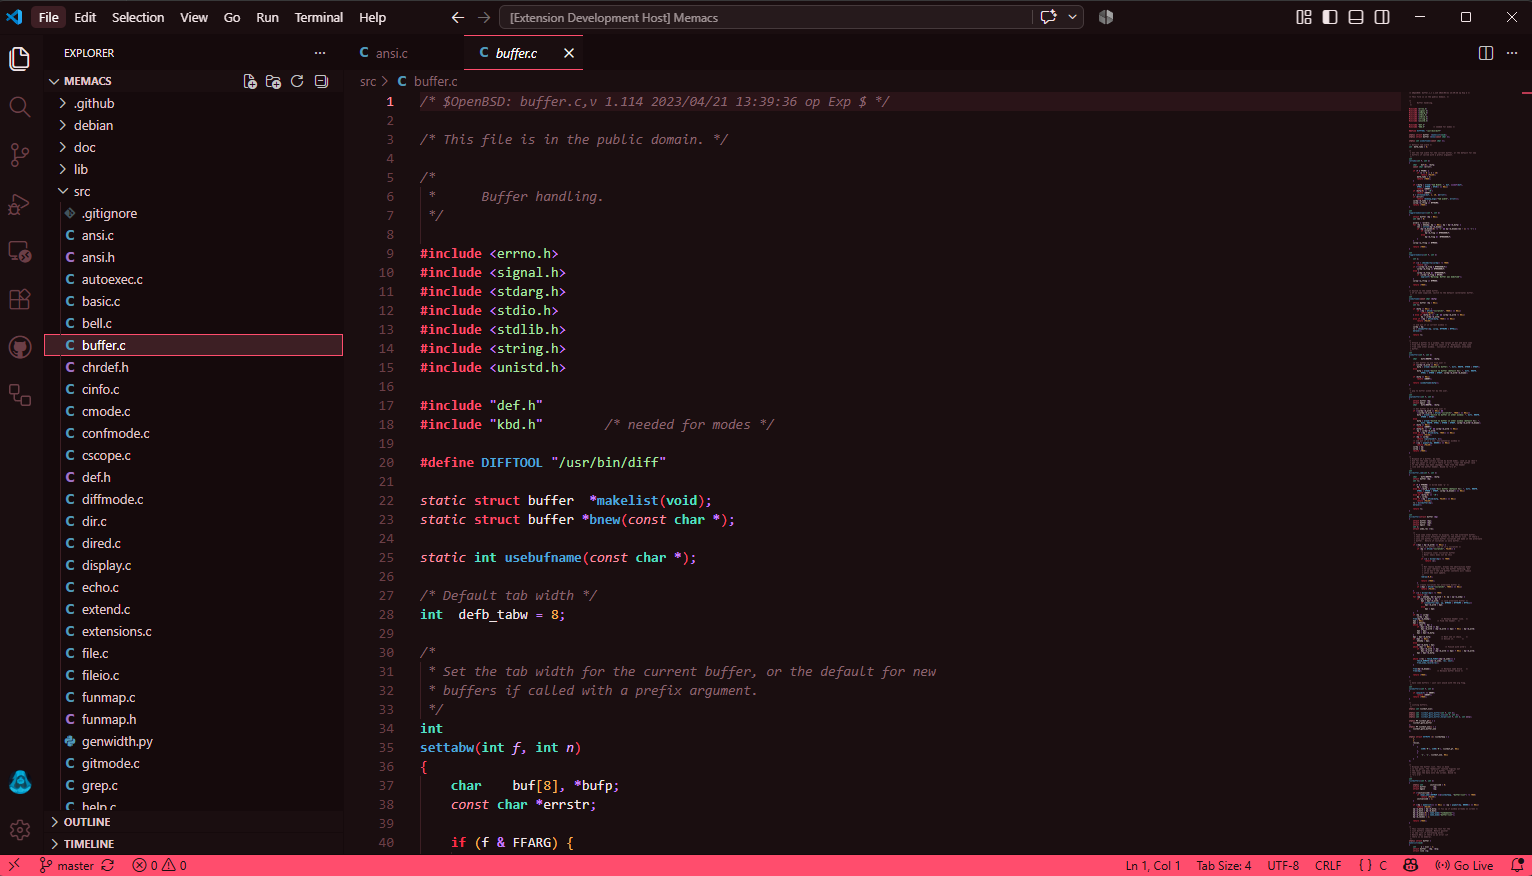
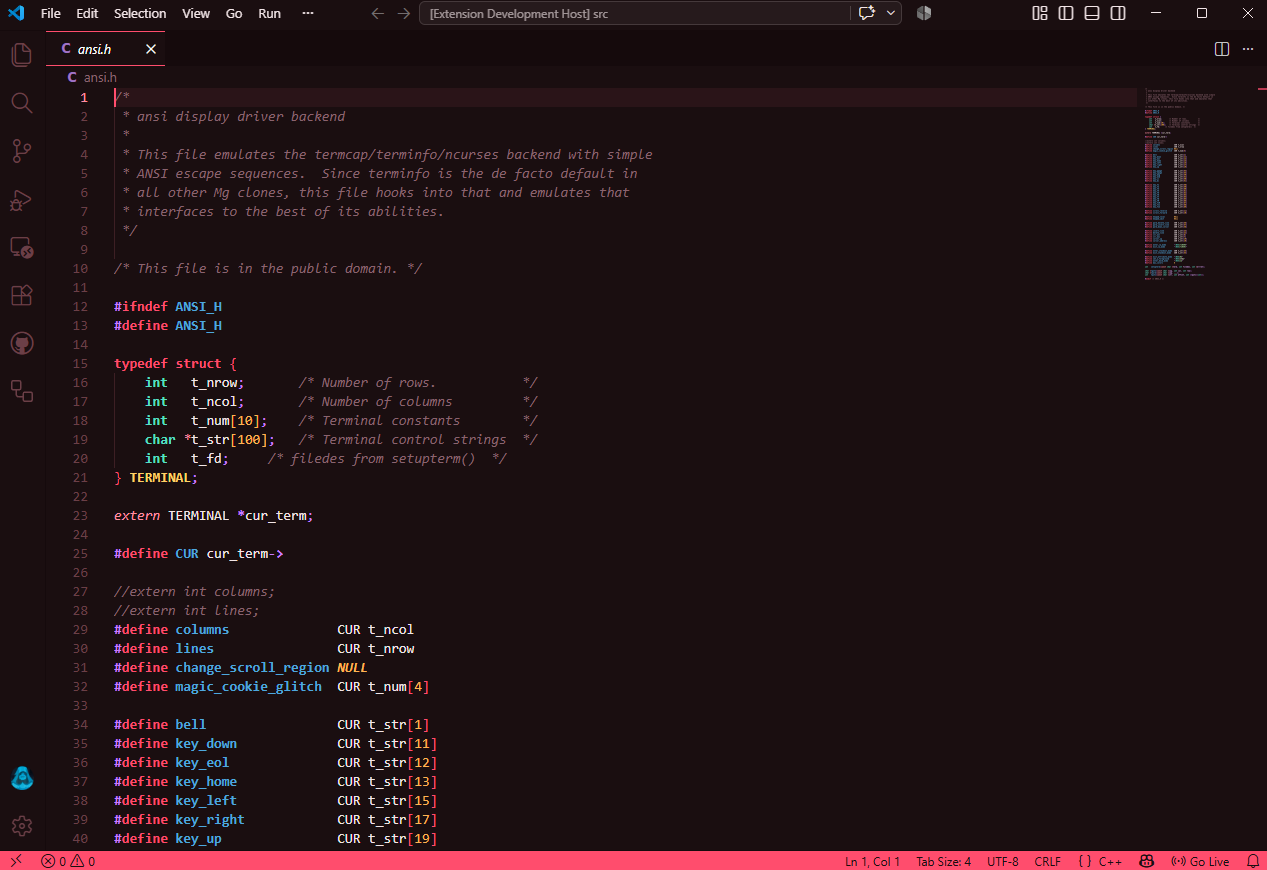
new file:   Images/Markdown.png 	modified:   Images/ZafiroDark.png 	modified:   README.md

diff --git a/README.md b/README.md
@@ -9,10 +9,12 @@ A dark color theme for Visual Studio Code with a crimson background and a high-c
 [![VS Code Marketplace](https://img.shields.io/badge/VS%20Code%20Marketplace-007ACC?style=for-the-badge&logo=visual-studio-code&logoColor=white)](https://marketplace.visualstudio.com/search?target=VSCode&category=Themes&sortBy=Installs)
 
 ## SCREENSHOT
-
+SafiroDark
 ![ScreenShot](/Images/ZafiroDark.png)
-
-
+SafiroPurple
+![ScreenShot](/Images/ZafiroProto.png)
+SafiroProto
+![ScreenShot](/Images/ZafiroPurple.png)
 
 
 
@@ -21,8 +23,8 @@ A dark color theme for Visual Studio Code with a crimson background and a high-c
 
 ## Markdown preview style
 
-![Markdown](https://cdn.jsdelivr.net/gh/binaryify/onedark-pro/screenshots/markdown.png)
-You can toggle whether to use markdown style in vscode setting (default use)
+![ScreenShot](/Images/Markdown.png)
+I highly recommend installing Color Highlight extension.
 
 
 ### Suggest Editor Settings
